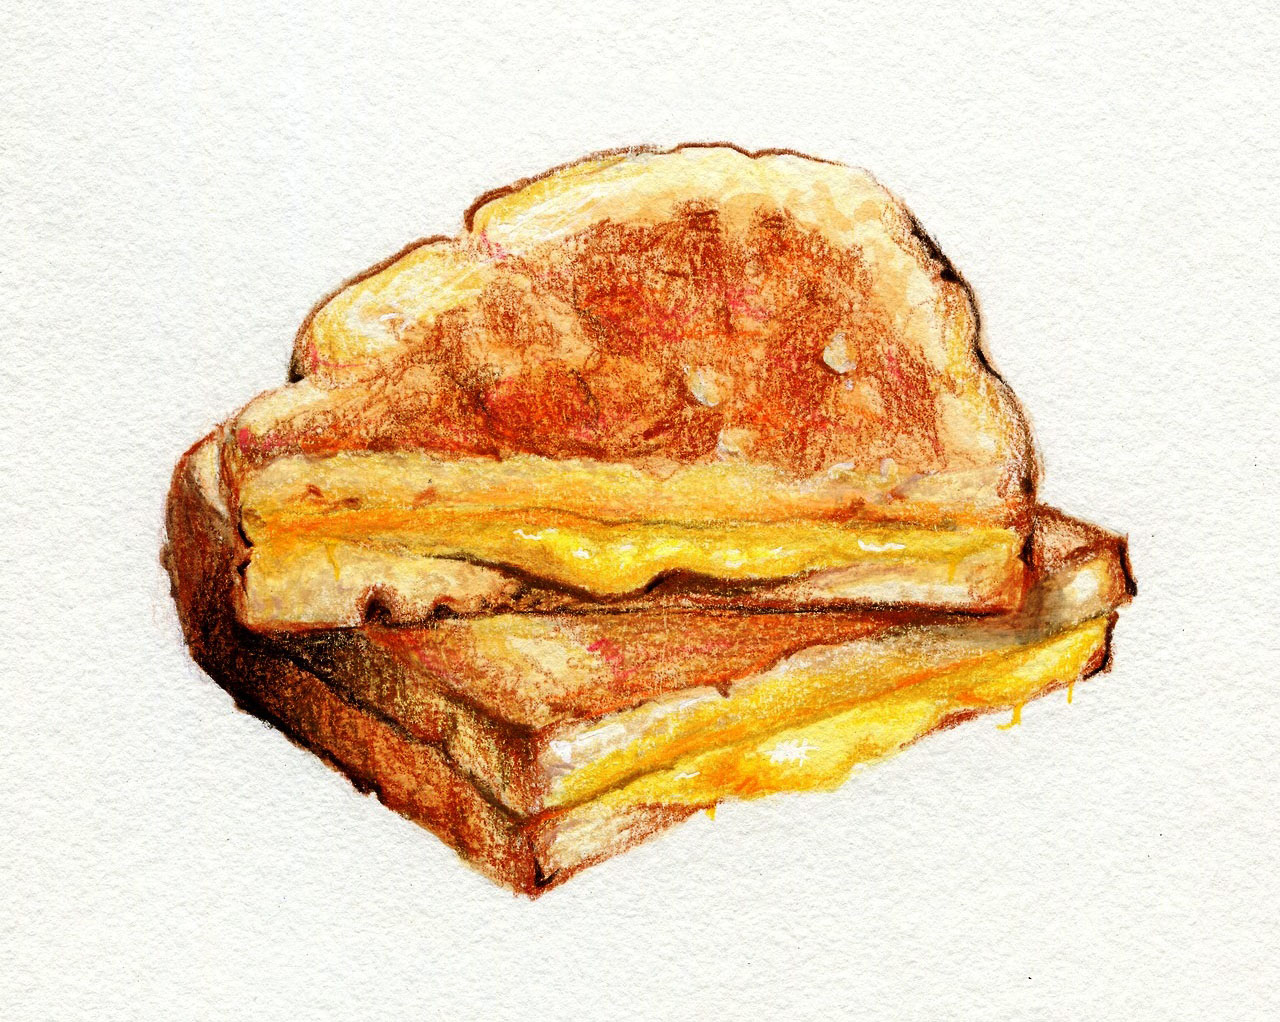
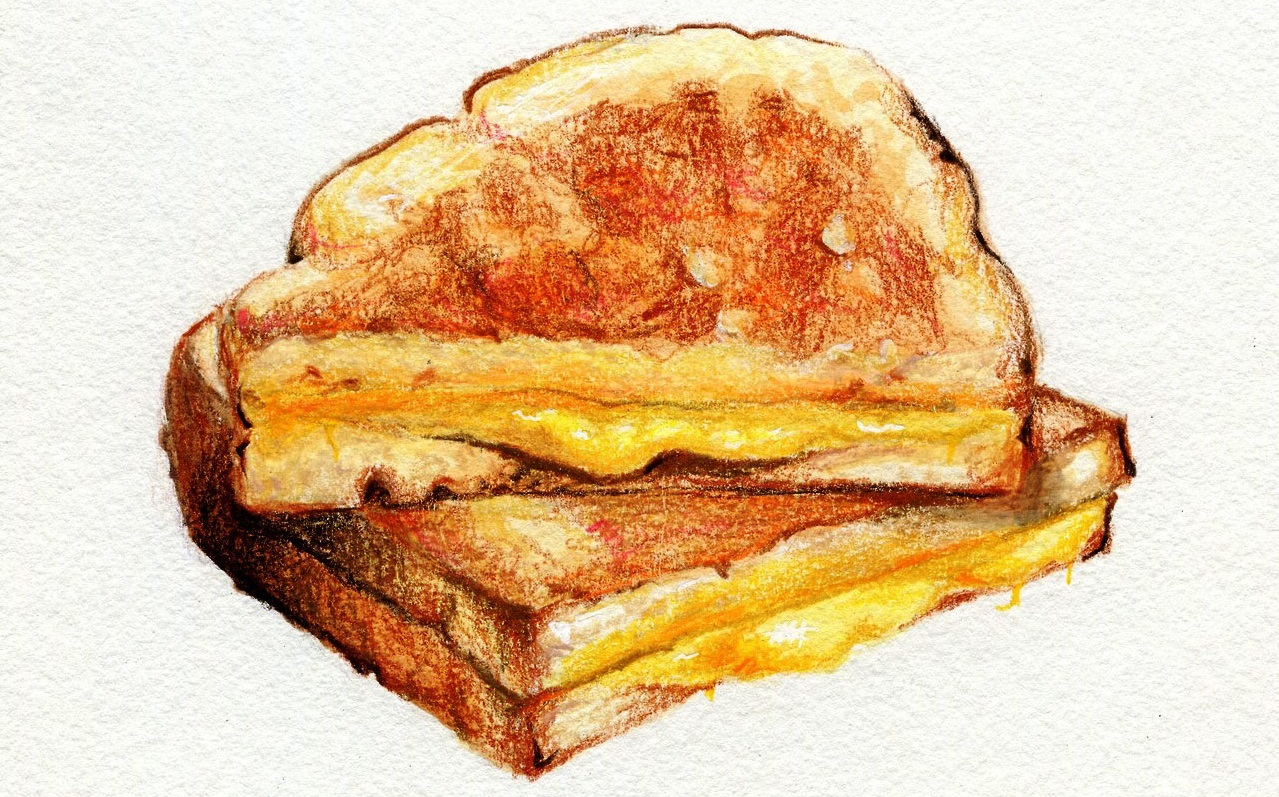
resized images, updated css for site, and added new content

diff --git a/ggcc/styles/style.css b/ggcc/styles/style.css
@@ -1,0 +1,178 @@
+:root {
+  --primary-color: #2a773f;
+  --secondary-color: #a54827;
+  --accent1-color: #f9f9f9;
+  --accent2-color: #f9d234;
+
+  --heading-font: Georgia;
+  --paragraph-font: Helvetica, verdana, times;
+
+  --headline-color-on-white: #2a773f; /* headlines on a white background */
+  --headline-color-on-color: #f9f9f9; /* headlines on a colored background */
+  --paragraph-color-on-white: #2a773f; /* paragraph text on a white background */
+  --paragraph-color-on-color: #f9f9f9; /* paragraph text on a colored background */
+  --paragraph-background-color: #2a773f;
+  --nav-link-color: #f9f9f9;
+  --nav-background-color: #2a773f;
+  --nav-hover-link-color: #f9f9f9;
+  --nav-hover-background-color: #a54827;
+}
+#homeMainImage {
+  border-radius: 10%;
+  border: solid 5px var(--secondary-color);
+  padding: 0px;
+  width: 75%;
+  box-shadow: 5px 5px 10px #6f7364;
+
+}
+#homeSecondImage {
+  border-radius: 5%;
+  border: solid 5px var(--secondary-color);
+  box-shadow: 5px 5px 10px #6f7364;
+  width: 75%;
+}
+
+#welcomeText {
+  width: fit-content;
+  text-align: center;
+  justify-content: center;
+  margin: 0 auto;
+  font: var(--heading-font);
+  color: var(--secondary-color);
+}
+
+#content {
+  max-width: 1600px;
+  margin: 0 auto;
+}
+
+#background {
+  height: 725px;
+  background-color: var(--primary-color);
+}
+
+#logo_link {
+  padding-top: 5px;
+  justify-self: center;
+  align-self: center;
+}
+
+#intro {
+  text-align: center;
+}
+
+#mainText {
+  background-color: var(--primary-color);
+  width: 75%;
+  padding-top: 25px;
+  padding-bottom: 25px;
+  margin: 25px auto;
+  color: #f9f9f9;
+  border-radius: 15px
+}
+
+
+
+#stingerSection p{
+  background-color: var(--primary-color);
+  width: fit-content;
+  padding: 25px;
+  margin: 25px auto;
+  color: #f9f9f9;
+  border-radius: 15px
+}
+nav {
+  display: flex;
+  justify-content: space-around;
+}
+nav a {
+  text-align: center;
+  color: var(--accent2-color);
+  text-decoration: none;
+  padding: 35px;
+}
+nav a:hover {
+  background-color: var(--nav-hover-background-color);
+  color: var(--accent2-color);
+}
+footer {
+  background-color: var(--secondary-color);
+  padding: 25px 50px;
+  margin-top: 200px;
+  display: flex;
+  justify-content: space-around;
+  align-items: center;
+}
+footer h3 {
+  color: var(--accent2-color);
+  font: var(--heading-font);
+}
+footer a {
+  color: var(--accent2-color);
+  text-decoration: none;
+}
+footer a:hover {
+  color: var(--accent2-color);
+  text-decoration: underline;
+}
+footer .social img {
+  padding-top: 15px;
+}
+main section {
+  text-align: center;
+}
+main section img {
+  box-sizing: border-box;
+}
+/* main.home-grid {
+  display: grid;
+  grid-template-columns: 1fr 1fr 1fr 1fr 1fr 1fr;
+} */
+
+body {
+  background-color: var(--accent2-color);
+  font-family: var(--paragraph-font);
+  font-size: 22px;
+  margin: 0;
+  padding: 0;
+}
+header {
+  background-color: var(--nav-background-color);
+  display: grid;
+  grid-template-columns: 150px auto;
+}
+
+.icon {
+  width: 80px;
+  padding-top: 10px;
+}
+.logo {
+  width: 100px;
+  padding-top: 5px;
+}
+
+
+
+@media screen and (max-width: 900px) {
+  main.home-grid {
+      display: block;
+      height: auto;
+  }
+  nav, footer {
+      flex-direction: column;
+  }
+  nav a {
+      display: block;
+      padding: 15px;
+  }
+  
+  
+  #background {
+      display: none;
+  }
+  
+  footer {
+      margin-top: 25px;
+  }
+}
+          

diff --git a/ggcc/index.html b/ggcc/index.html
@@ -1,6 +1,7 @@
 <!DOCTYPE html>
 <html lang="en">
 <head>
+    <link rel="stylesheet" href="styles/style.css" />
     <meta charset="UTF-8">
     <meta http-equiv="X-UA-Compatible" content="IE=edge">
     <meta name="viewport" content="width=device-width, initial-scale=1.0">
@@ -20,9 +21,12 @@
             </nav>
           </header>
           <main class="home-grid">
-            <section id="mainText">
-                <h1>Welcome to the Global Grilled Cheese Coalition!</h1>
-                <img src="images/grilled_cheese_clipart.jpg" alt="a drawing of a grilled cheese">
+            <section id="welcomeText">
+              <h1>Welcome to the Global Grilled Cheese Coalition!</h1>
+            </section>
+            <section id="openingSection">
+              <img src="images/grilled_cheese_clipart.jpg" alt="a drawing of a grilled cheese" id="homeMainImage">
+              <section id="mainText">
                 <h3>Our Mission:</h3>
                 <p>
                     To help provide information and education on
@@ -30,10 +34,11 @@
                     On this site you can find recipes, facts, and history related
                     to the grilled cheese sandwich. Thank you for visiting!
                 </p>
+              </section>
             </section>
             <section id="stingerSection">
-                <img src="images/nathan-dumlao-_wA_5FSU4NQ-unsplash.jpg" alt="the sandwich alignment chart">
-                <p>Look good? There's more where that came from!</p>
+                <img src="images/nathan-dumlao-_wA_5FSU4NQ-unsplash.jpg" alt="a sandwich" id="homeSecondImage">
+                <p>Having a bad day? Have you had a grilled cheese lately?</p>
             </section>
           </main>
           <footer>

diff --git a/ggcc/recipe.html b/ggcc/recipe.html
@@ -67,7 +67,8 @@
             Step 5: repeat for next Side
             Step 6: remove sandwich from pan once cheese has melted, cut diagonally and serve warm
           </p>
-          <img src="images/grilled_cheese_clipart.jpg" alt="a picture of a grilled cheese.">
+          <img src="images/grilled-cheese-sandwich.jpg" alt="a picture of a grilled cheese.">
+          <p>Image courtesy of freepik.com</p>
         </section>
       </main>
       <footer>
